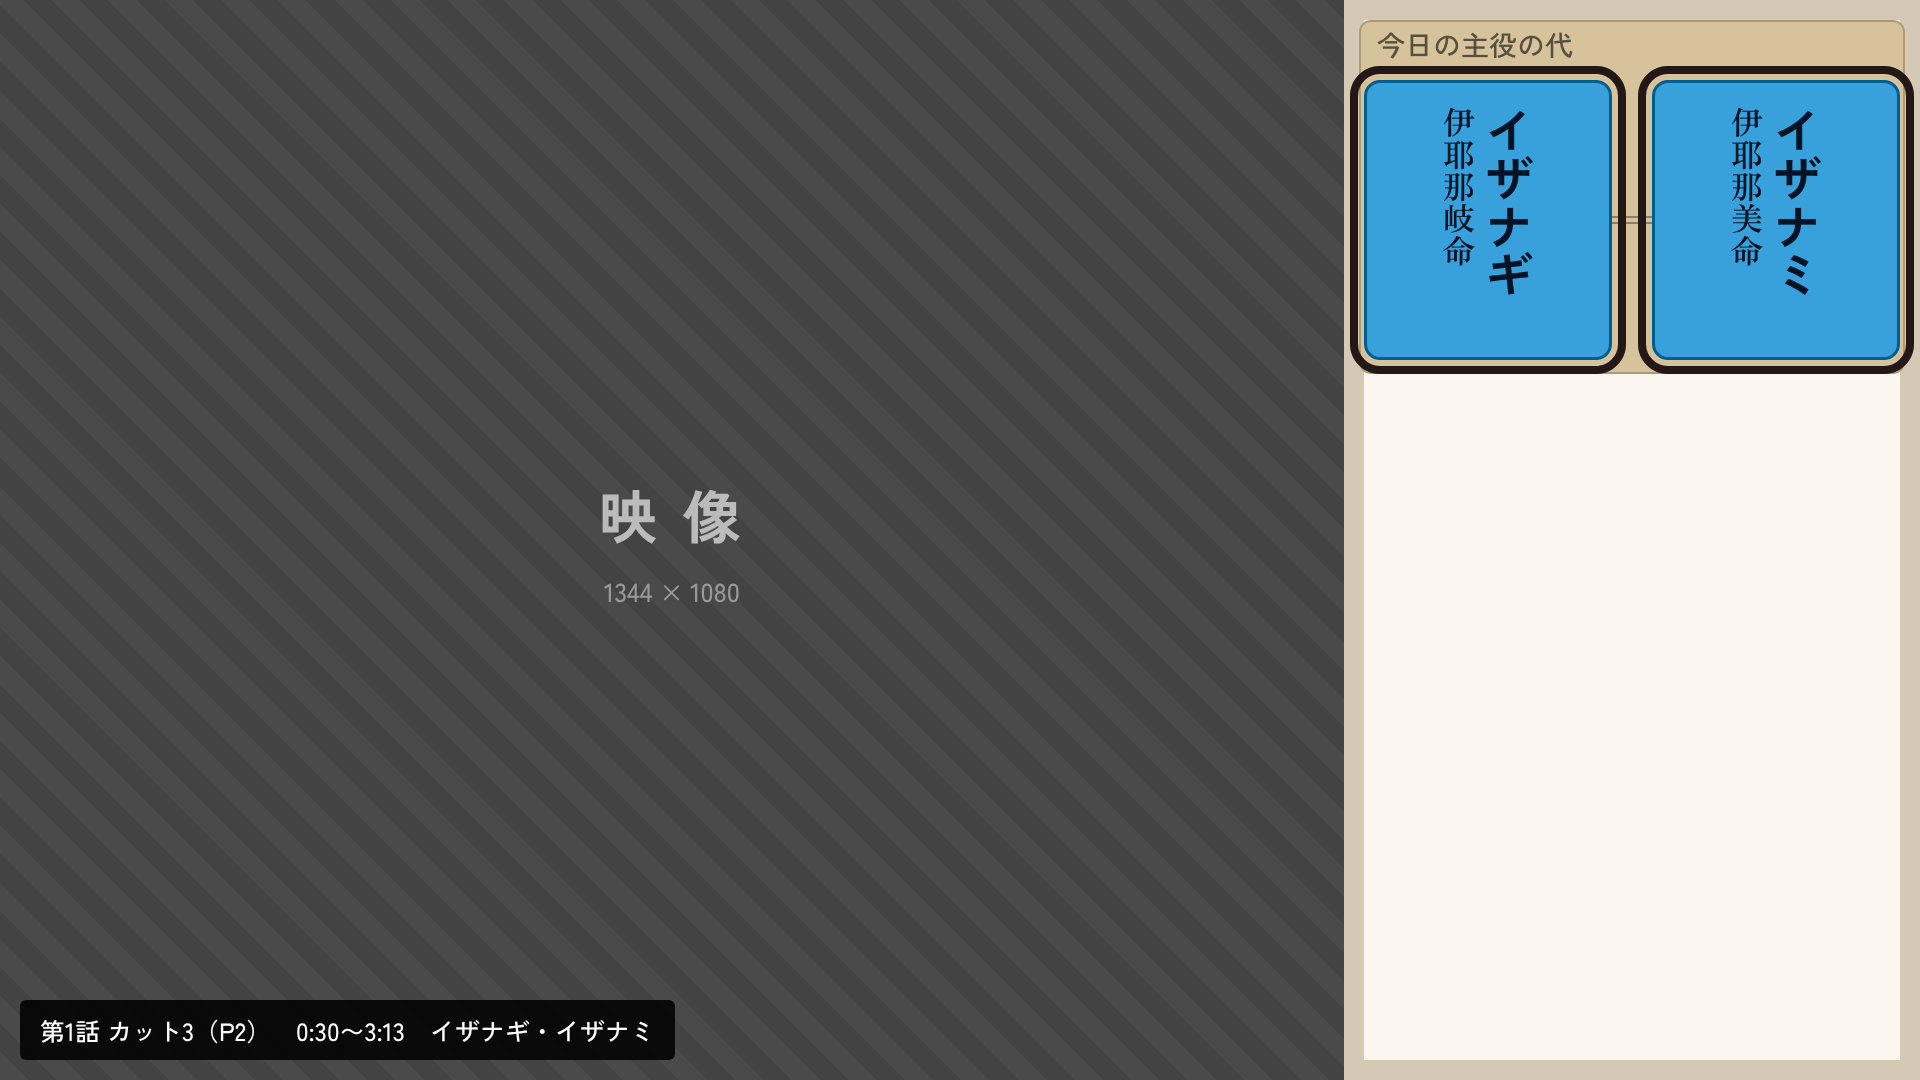
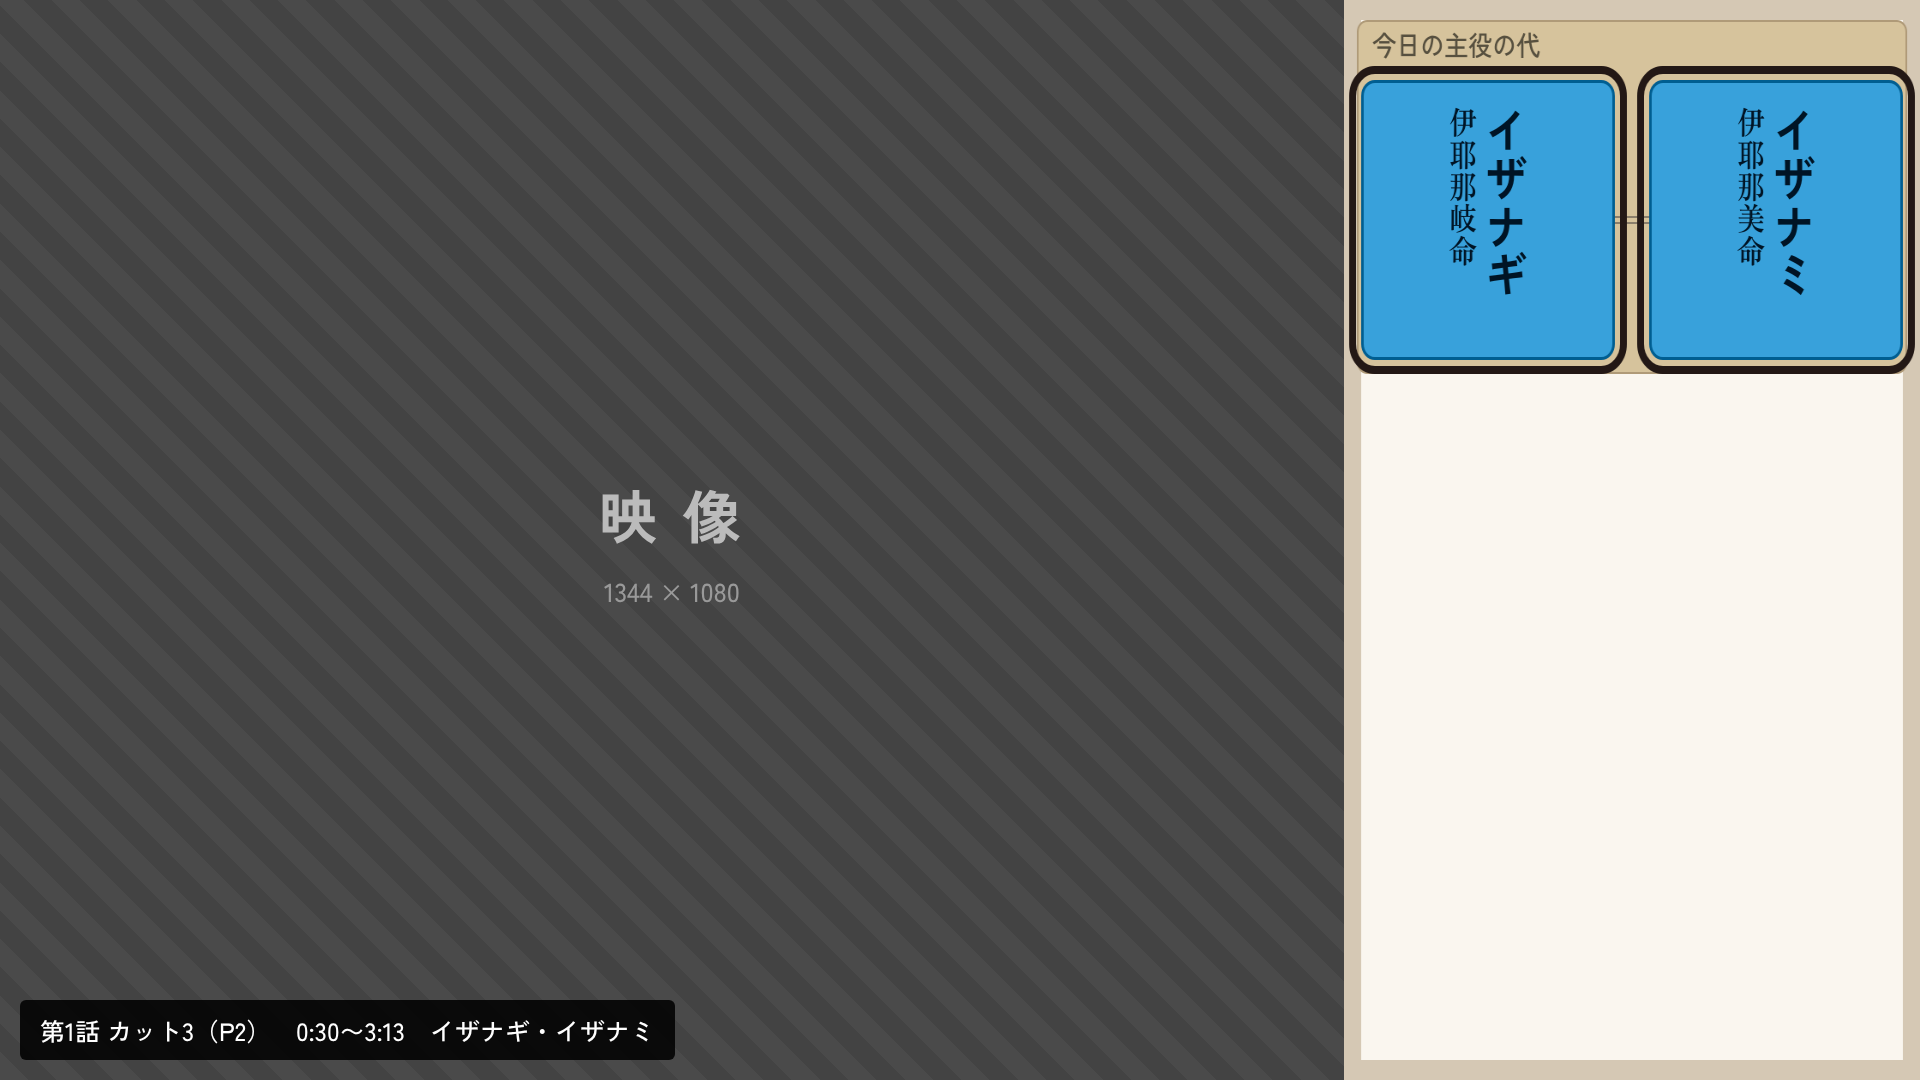
文字が重なるバグを直した（段の高さをノード1件ずつ数える）
タマヨリヒメ(6字)の後半が漢字「玉依毘売」に重なっていた。

原因：段の高さを「いちばん長い名前」から決めていたが、長い名ほど
列が増えて背が低くなるため逆転が起きていた。
  ウガヤフキアエズ 8字 → 2列 → 192px
  タマヨリヒメ     6字 → 1列 → 288px  ← こちらが高い
192pxの枠に288px分を流し込み、2列目が漢字の上に重なっていた。

対処：ノード1件ずつ高さを出して最大を取る。描画の枠も
そのノード自身が必要とする高さにする。

高さの計算が変わったので最悪ケースを再検証し、折り返さない
1列6字のケース（E・F）を追加した。結論は変わらず、全6ケースが
通って映像が最大になるのは672px（映像65%・1248×1080）。

Claude-Session: https://claude.ai/code/session_0189CDTuRufaivfABZG6ZzXF

diff --git a/tools/相関図/生成.py b/tools/相関図/生成.py
@@ -113,20 +113,30 @@ def 縦に割る(名, 列数):
     return 名
 
 
-def 縦の規格(幅, 名の最長, 小の最長):
-    """縦書き：神名を縦に置く。長い名は複数列に折る（右の列から読む）。
-    カードの高さは、いちばん長い列の字数で決まる。
-    漢字・読みは神名の左に縦に添える。"""
+def 縦の規格(幅, 名々, 小々):
+    """縦書き：神名を縦に置く。長い名は2列に折る（右の列から読む）。
+
+    ⚠ 段の高さは「いちばん長い名前」ではなく、**1件ずつ高さを出して最大を取る**。
+      長い名ほど列が増えて背が低くなるため、逆転が起きる。
+        ウガヤフキアエズ 8字 → 2列 → 192px
+        タマヨリヒメ     6字 → 1列 → 288px  ← こちらのほうが高い
+      最長の名前から決めると、短いほうが枠からあふれて漢字に重なる。
+    """
     t = 設定['縦書き']
     字 = 設定['ノード']['神名字サイズ']
     漢 = 32 if 幅 >= 200 else (26 if 幅 >= 150 else 22)
     サ = 26 if 幅 >= 200 else 22
     列上限 = t.get('1列の最大字数', 6)
-    名列 = 縦の列数(名の最長, 列上限)
-    小列 = 縦の列数(小の最長, 列上限 + 2)
-    名高 = -(-名の最長 // 名列) * 字
-    小高 = -(-小の最長 // 小列) * 漢 if 小の最長 else 0
+
+    def 高さ(語, 文字):
+        c = 縦の列数(len(語), 列上限 if 文字 == 字 else 列上限 + 2)
+        return -(-len(語) // c) * 文字
+
+    名高 = max((高さ(n, 字) for n in 名々 if n), default=0)
+    小高 = max((高さ(k, 漢) for k in 小々 if k), default=0)
     中身 = max(名高, 小高)
+    名列 = max((縦の列数(len(n), 列上限) for n in 名々 if n), default=1)
+    小列 = max((縦の列数(len(k), 列上限 + 2) for k in 小々 if k), default=0)
     return {'幅': 幅, '高さ': t['上余白'] + 中身 + t['サブ上'] + サ + t['下余白'],
             '中央寄せ': False, '縦': True, '字': 字, '漢字': 漢, 'サブ': サ,
             '上余白': t['上余白'], 'すきま': t['名と漢字のすきま'],
@@ -254,9 +264,9 @@ def 縦の検算(話データ):
         for 段 in p['段']:
             n = len(段['ノード'])
             幅 = 幅を検算する(n)
-            規格 = 縦の規格(幅, max(len(x['名']) for x in 段['ノード']),
-                          max((len(話データ['ノード'][x['名']].get('小') or '')
-                               for x in 段['ノード']), default=0))
+            規格 = 縦の規格(幅, [x['名'] for x in 段['ノード']],
+                          [話データ['ノード'][x['名']].get('小') or ''
+                           for x in 段['ノード']])
             要る = (規格['名列'] * 規格['字'] + 規格['すきま']
                     + 規格['小列'] * 規格['漢字'])
             if 要る > 幅:
@@ -289,10 +299,9 @@ def 段の配置(段, 帯上端, 線あり, 話データ=None):
     n = len(段['ノード'])
     幅 = 幅を検算する(n)
     if 縦書きか() and 話データ is not None:
-        名長 = max(len(nd['名']) for nd in 段['ノード'])
-        小長 = max((len(話データ['ノード'][nd['名']].get('小') or '')
-                    for nd in 段['ノード']), default=0)
-        規格 = 縦の規格(幅, 名長, 小長)
+        名々 = [nd['名'] for nd in 段['ノード']]
+        小々 = [話データ['ノード'][nd['名']].get('小') or '' for nd in 段['ノード']]
+        規格 = 縦の規格(幅, 名々, 小々)
         規格['中央寄せ'] = (n == 1)   # 1個だけの行は幹の真下に中央寄せ（仕様書3節）
     elif 図幅() == 設定['キャンバス']['幅'] or 話データ is None:
         規格 = 幅表()[n]
@@ -441,15 +450,19 @@ def HTMLを作る(話データ, ページid, 強調, 書体css):
                 幅合計 = 名幅 + (規格['すきま'] + 小幅 if 小 else 0)
                 右端 = nd['x'] + (nd['幅'] + 幅合計) / 2       # 神名は右の列
                 名x = 右端 - 名幅
+                # 枠の高さは、そのノードが実際に必要とする高さにする。
+                # 段の最大高さを当てると、短い名前が折り返して隣の列に重なる
+                名高 = -(-len(nd['名']) // 名列) * 字
                 部品.append(
                     f'<div class="縦名" style="left:{名x}px;top:{nd["y"]+規格["上余白"]}px;'
-                    f'width:{名幅}px;height:{規格["中身高"]}px;font-size:{字}px;'
+                    f'width:{名幅}px;height:{名高}px;font-size:{字}px;'
                     f'color:{文字色}">{名}</div>')
                 if 小:
+                    小高 = -(-len(小) // 小列) * 漢
                     部品.append(
                         f'<div class="縦小" style="left:{名x-規格["すきま"]-小幅}px;'
                         f'top:{nd["y"]+規格["上余白"]}px;width:{小幅}px;'
-                        f'height:{規格["中身高"]}px;font-size:{漢}px;'
+                        f'height:{小高}px;font-size:{漢}px;'
                         f'color:{文字色}">{小}</div>')
                 サブ = nd.get('サブ')
                 if サブ:

diff --git a/tools/相関図/README.md b/tools/相関図/README.md
@@ -125,6 +125,25 @@ Google Fonts から取り寄せ、**HTMLに埋め込んでいる。**
    読む順番が決まらない    └──────┘
 ```
 
+### ⚠ 段の高さは「1件ずつ」数える（2026年11月28日・文字が重なるバグ）
+
+**長い名前のほうが背が低くなる逆転があるため、「段でいちばん長い名前」から
+高さを決めてはいけない。**
+
+```
+  第14話 親の段
+    ウガヤフキアエズ  8字 → 2列 → 4字×48 = 192px
+    タマヨリヒメ      6字 → 1列 → 6字×48 = 288px  ← こちらが高い
+
+  最長の名前（8字）から192pxに決めていたため、
+  タマヨリヒメの6字が192pxに収まらず2列目に折り返し、
+  **漢字「玉依毘売」の上に重なって表示された。**
+```
+
+**対処：ノード1件ずつ高さを出し、その最大を段の高さにする。**
+さらに、描画するときの枠の高さも**そのノード自身が必要とする高さ**にする
+（段の最大高さを当てると、短い名前がまた折り返す）。
+
 ### 最悪ケースでの検証（2026年11月28日）
 
 全79ノードから、いちばん厳しい組み合わせを作って検証した。
@@ -136,16 +155,20 @@ Google Fonts から取り寄せ、**HTMLに埋め込んでいる。**
 | B | 2段 ＋ 4兄弟（第14話 イツセ・イナヒ・ミケヌ・イワレビコ） |
 | C | 9字の神名を3個横並び（コノハナサクヤヒメ／八咫鏡・八尺瓊勾玉／多邇具久・久延毘古） |
 | D | 読み10字（むなかたさんじょしん）を含む3個横並び |
+| E | 1列6字の名前が3個横並び（折り返さない＝いちばん背が高い） |
+| F | 3段 ＋ 1列6字の名前 |
 
-| 相関図幅 | 映像 | A | B | C | D |
-|---|---|---|---|---|---|
-| 960 | 50% | ✓段階6 | ✓段階0 | ✓段階0 | ✓段階0 |
-| 864 | 55% | ✓段階6 | ✓段階0 | ✓段階0 | ✓段階0 |
-| **768** | **60%** | **✓段階4** | **✓段階0** | **✓段階0** | **✓段階0** |
-| 720 | 62% | ✓段階4 | ✓段階0 | ✓段階0 | ✓段階0 |
-| **672** | **65%** | **✓段階4** | **✓段階0** | **✓段階0** | **✓段階0** |
-| 624 | 68% | ✗ | ✓段階0 | ✓段階0 | ✓段階0 |
-| 576 | 70% | ✗ | ✓段階0 | ✗ | ✗ |
+| 相関図幅 | 映像 | A | B | C | D | E | F |
+|---|---|---|---|---|---|---|---|
+| 960 | 50% | ✓6 | ✓0 | ✓0 | ✓0 | ✓0 | ✓3 |
+| 864 | 55% | ✓6 | ✓0 | ✓0 | ✓0 | ✓0 | ✓3 |
+| 768 | 60% | ✓4 | ✓0 | ✓0 | ✓0 | ✓0 | ✓3 |
+| 720 | 62% | ✓4 | ✓0 | ✓0 | ✓0 | ✓0 | ✓3 |
+| **672** | **65%** | **✓4** | **✓0** | **✓0** | **✓0** | **✓0** | **✓3** |
+| 624 | 68% | ✗ | ✓0 | ✓0 | ✓0 | ✓0 | ✓3 |
+| 576 | 70% | ✗ | ✓0 | ✗ | ✗ | ✓0 | ✓3 |
+
+数字は自動で選ばれた詰める段階。
 
 **→ 全ケースが通る中で映像が最大になるのは 672px（映像65%）。**
 
